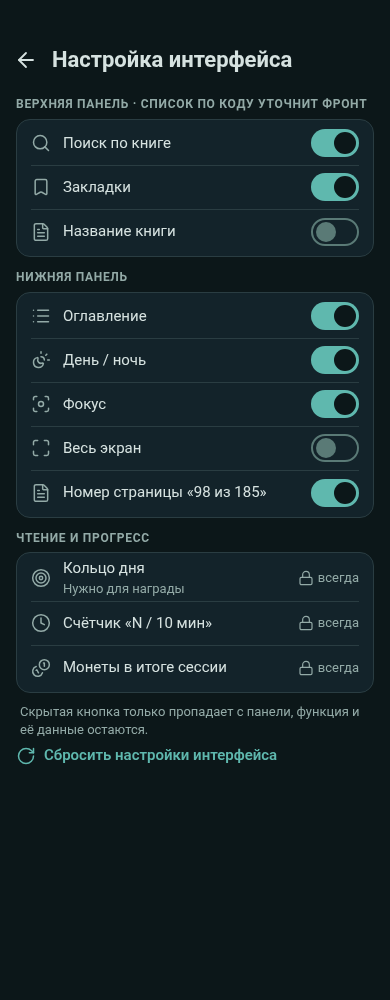
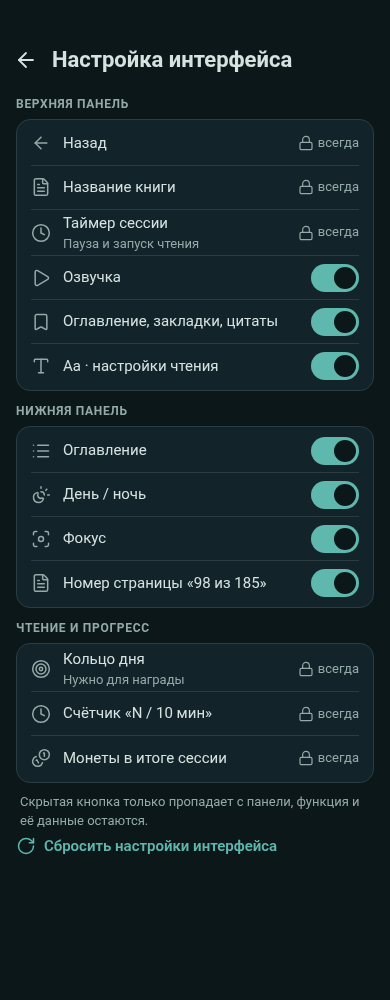
ui: Настройка интерфейса по реальной верхней панели, UI_LOCKED, без btnFull

Changed region(s): [[0.0308, 0.093, 0.9231, 0.868], [0.3077, 0.093, 0.4923, 0.155], [0.1846, 0.124, 0.2769, 0.155]]

diff --git a/handoff/stage1-final/src/sf-settings-interface-night.html b/handoff/stage1-final/src/sf-settings-interface-night.html
@@ -1,18 +1,36 @@
 <!doctype html><html lang="ru" data-theme="night"><head><meta charset="utf-8"><title>settings-interface</title><link rel="stylesheet" href="../tokens.css"><link rel="stylesheet" href="mock.css"></head><body><div class="scr"><div class="hdr back" style="height:84px"><div class="ib"><svg class="i" width="24" height="24" viewBox="0 0 24 24" fill="none" stroke="currentColor" stroke-width="1.8" stroke-linecap="round" stroke-linejoin="round">
   <path d="m12 19-7-7 7-7" />
   <path d="M19 12H5" />
-</svg></div><h1>Настройка интерфейса</h1></div><div class="setwrap"><div class="cap" style="margin:12px 16px 6px">Верхняя панель · список по коду уточнит Фронт</div><div class="card" style="margin:0 16px;padding:2px 14px"><div class="srow" style="padding:3px 0;border-bottom:1px solid var(--rq-line)"><span class="mut"><svg class="i" width="20" height="20" viewBox="0 0 24 24" fill="none" stroke="currentColor" stroke-width="1.8" stroke-linecap="round" stroke-linejoin="round">
-  <path d="m21 21-4.34-4.34" />
-  <circle cx="11" cy="11" r="8" />
-</svg></span><div class="tx">Поиск по книге</div><div class="tg"></div></div><div class="srow" style="padding:3px 0;border-bottom:1px solid var(--rq-line)"><span class="mut"><svg class="i" width="20" height="20" viewBox="0 0 24 24" fill="none" stroke="currentColor" stroke-width="1.8" stroke-linecap="round" stroke-linejoin="round">
-  <path d="M17 3a2 2 0 0 1 2 2v15a1 1 0 0 1-1.496.868l-4.512-2.578a2 2 0 0 0-1.984 0l-4.512 2.578A1 1 0 0 1 5 20V5a2 2 0 0 1 2-2z" />
-</svg></span><div class="tx">Закладки</div><div class="tg"></div></div><div class="srow" style="padding:3px 0;border-bottom:0"><span class="mut"><svg class="i" width="20" height="20" viewBox="0 0 24 24" fill="none" stroke="currentColor" stroke-width="1.8" stroke-linecap="round" stroke-linejoin="round">
+</svg></div><h1>Настройка интерфейса</h1></div><div class="setwrap"><div class="cap" style="margin:12px 16px 6px">Верхняя панель</div><div class="card" style="margin:0 16px;padding:2px 14px"><div class="srow" style="padding:3px 0;border-bottom:1px solid var(--rq-line)"><span class="mut"><svg class="i" width="20" height="20" viewBox="0 0 24 24" fill="none" stroke="currentColor" stroke-width="1.8" stroke-linecap="round" stroke-linejoin="round">
+  <path d="m12 19-7-7 7-7" />
+  <path d="M19 12H5" />
+</svg></span><div class="tx">Назад</div><span class="mut" style="display:flex;align-items:center;gap:4px;font-size:0.8125rem"><svg class="i" width="16" height="16" viewBox="0 0 24 24" fill="none" stroke="currentColor" stroke-width="1.8" stroke-linecap="round" stroke-linejoin="round">
+  <rect width="18" height="11" x="3" y="11" rx="2" ry="2" />
+  <path d="M7 11V7a5 5 0 0 1 10 0v4" />
+</svg>всегда</span></div><div class="srow" style="padding:3px 0;border-bottom:1px solid var(--rq-line)"><span class="mut"><svg class="i" width="20" height="20" viewBox="0 0 24 24" fill="none" stroke="currentColor" stroke-width="1.8" stroke-linecap="round" stroke-linejoin="round">
   <path d="M6 22a2 2 0 0 1-2-2V4a2 2 0 0 1 2-2h8a2.4 2.4 0 0 1 1.704.706l3.588 3.588A2.4 2.4 0 0 1 20 8v12a2 2 0 0 1-2 2z" />
   <path d="M14 2v5a1 1 0 0 0 1 1h5" />
   <path d="M10 9H8" />
   <path d="M16 13H8" />
   <path d="M16 17H8" />
-</svg></span><div class="tx">Название книги</div><div class="tg off"></div></div></div><div class="cap" style="margin:12px 16px 6px">Нижняя панель</div><div class="card" style="margin:0 16px;padding:2px 14px"><div class="srow" style="padding:3px 0;border-bottom:1px solid var(--rq-line)"><span class="mut"><svg class="i" width="20" height="20" viewBox="0 0 24 24" fill="none" stroke="currentColor" stroke-width="1.8" stroke-linecap="round" stroke-linejoin="round">
+</svg></span><div class="tx">Название книги</div><span class="mut" style="display:flex;align-items:center;gap:4px;font-size:0.8125rem"><svg class="i" width="16" height="16" viewBox="0 0 24 24" fill="none" stroke="currentColor" stroke-width="1.8" stroke-linecap="round" stroke-linejoin="round">
+  <rect width="18" height="11" x="3" y="11" rx="2" ry="2" />
+  <path d="M7 11V7a5 5 0 0 1 10 0v4" />
+</svg>всегда</span></div><div class="srow" style="padding:3px 0;border-bottom:1px solid var(--rq-line)"><span class="mut"><svg class="i" width="20" height="20" viewBox="0 0 24 24" fill="none" stroke="currentColor" stroke-width="1.8" stroke-linecap="round" stroke-linejoin="round">
+  <circle cx="12" cy="12" r="10" />
+  <path d="M12 6v6l4 2" />
+</svg></span><div class="tx">Таймер сессии<small>Пауза и запуск чтения</small></div><span class="mut" style="display:flex;align-items:center;gap:4px;font-size:0.8125rem"><svg class="i" width="16" height="16" viewBox="0 0 24 24" fill="none" stroke="currentColor" stroke-width="1.8" stroke-linecap="round" stroke-linejoin="round">
+  <rect width="18" height="11" x="3" y="11" rx="2" ry="2" />
+  <path d="M7 11V7a5 5 0 0 1 10 0v4" />
+</svg>всегда</span></div><div class="srow" style="padding:3px 0;border-bottom:1px solid var(--rq-line)"><span class="mut"><svg class="i" width="20" height="20" viewBox="0 0 24 24" fill="none" stroke="currentColor" stroke-width="1.8" stroke-linecap="round" stroke-linejoin="round">
+  <path d="M5 5a2 2 0 0 1 3.008-1.728l11.997 6.998a2 2 0 0 1 .003 3.458l-12 7A2 2 0 0 1 5 19z" />
+</svg></span><div class="tx">Озвучка</div><div class="tg"></div></div><div class="srow" style="padding:3px 0;border-bottom:1px solid var(--rq-line)"><span class="mut"><svg class="i" width="20" height="20" viewBox="0 0 24 24" fill="none" stroke="currentColor" stroke-width="1.8" stroke-linecap="round" stroke-linejoin="round">
+  <path d="M17 3a2 2 0 0 1 2 2v15a1 1 0 0 1-1.496.868l-4.512-2.578a2 2 0 0 0-1.984 0l-4.512 2.578A1 1 0 0 1 5 20V5a2 2 0 0 1 2-2z" />
+</svg></span><div class="tx">Оглавление, закладки, цитаты</div><div class="tg"></div></div><div class="srow" style="padding:3px 0;border-bottom:0"><span class="mut"><svg class="i" width="20" height="20" viewBox="0 0 24 24" fill="none" stroke="currentColor" stroke-width="1.8" stroke-linecap="round" stroke-linejoin="round">
+  <path d="M12 4v16" />
+  <path d="M4 7V5a1 1 0 0 1 1-1h14a1 1 0 0 1 1 1v2" />
+  <path d="M9 20h6" />
+</svg></span><div class="tx">Aa · настройки чтения</div><div class="tg"></div></div></div><div class="cap" style="margin:12px 16px 6px">Нижняя панель</div><div class="card" style="margin:0 16px;padding:2px 14px"><div class="srow" style="padding:3px 0;border-bottom:1px solid var(--rq-line)"><span class="mut"><svg class="i" width="20" height="20" viewBox="0 0 24 24" fill="none" stroke="currentColor" stroke-width="1.8" stroke-linecap="round" stroke-linejoin="round">
   <path d="M3 5h.01" />
   <path d="M3 12h.01" />
   <path d="M3 19h.01" />
@@ -31,12 +49,7 @@
   <path d="M17 3h2a2 2 0 0 1 2 2v2" />
   <path d="M21 17v2a2 2 0 0 1-2 2h-2" />
   <path d="M7 21H5a2 2 0 0 1-2-2v-2" />
-</svg></span><div class="tx">Фокус</div><div class="tg"></div></div><div class="srow" style="padding:3px 0;border-bottom:1px solid var(--rq-line)"><span class="mut"><svg class="i" width="20" height="20" viewBox="0 0 24 24" fill="none" stroke="currentColor" stroke-width="1.8" stroke-linecap="round" stroke-linejoin="round">
-  <path d="M8 3H5a2 2 0 0 0-2 2v3" />
-  <path d="M21 8V5a2 2 0 0 0-2-2h-3" />
-  <path d="M3 16v3a2 2 0 0 0 2 2h3" />
-  <path d="M16 21h3a2 2 0 0 0 2-2v-3" />
-</svg></span><div class="tx">Весь экран</div><div class="tg off"></div></div><div class="srow" style="padding:3px 0;border-bottom:0"><span class="mut"><svg class="i" width="20" height="20" viewBox="0 0 24 24" fill="none" stroke="currentColor" stroke-width="1.8" stroke-linecap="round" stroke-linejoin="round">
+</svg></span><div class="tx">Фокус</div><div class="tg"></div></div><div class="srow" style="padding:3px 0;border-bottom:0"><span class="mut"><svg class="i" width="20" height="20" viewBox="0 0 24 24" fill="none" stroke="currentColor" stroke-width="1.8" stroke-linecap="round" stroke-linejoin="round">
   <path d="M6 22a2 2 0 0 1-2-2V4a2 2 0 0 1 2-2h8a2.4 2.4 0 0 1 1.704.706l3.588 3.588A2.4 2.4 0 0 1 20 8v12a2 2 0 0 1-2 2z" />
   <path d="M14 2v5a1 1 0 0 0 1 1h5" />
   <path d="M10 9H8" />

diff --git a/handoff/stage1-final/src/sf-settings-interface-day.html b/handoff/stage1-final/src/sf-settings-interface-day.html
@@ -1,18 +1,36 @@
 <!doctype html><html lang="ru" data-theme="day"><head><meta charset="utf-8"><title>settings-interface</title><link rel="stylesheet" href="../tokens.css"><link rel="stylesheet" href="mock.css"></head><body><div class="scr"><div class="hdr back" style="height:84px"><div class="ib"><svg class="i" width="24" height="24" viewBox="0 0 24 24" fill="none" stroke="currentColor" stroke-width="1.8" stroke-linecap="round" stroke-linejoin="round">
   <path d="m12 19-7-7 7-7" />
   <path d="M19 12H5" />
-</svg></div><h1>Настройка интерфейса</h1></div><div class="setwrap"><div class="cap" style="margin:12px 16px 6px">Верхняя панель · список по коду уточнит Фронт</div><div class="card" style="margin:0 16px;padding:2px 14px"><div class="srow" style="padding:3px 0;border-bottom:1px solid var(--rq-line)"><span class="mut"><svg class="i" width="20" height="20" viewBox="0 0 24 24" fill="none" stroke="currentColor" stroke-width="1.8" stroke-linecap="round" stroke-linejoin="round">
-  <path d="m21 21-4.34-4.34" />
-  <circle cx="11" cy="11" r="8" />
-</svg></span><div class="tx">Поиск по книге</div><div class="tg"></div></div><div class="srow" style="padding:3px 0;border-bottom:1px solid var(--rq-line)"><span class="mut"><svg class="i" width="20" height="20" viewBox="0 0 24 24" fill="none" stroke="currentColor" stroke-width="1.8" stroke-linecap="round" stroke-linejoin="round">
-  <path d="M17 3a2 2 0 0 1 2 2v15a1 1 0 0 1-1.496.868l-4.512-2.578a2 2 0 0 0-1.984 0l-4.512 2.578A1 1 0 0 1 5 20V5a2 2 0 0 1 2-2z" />
-</svg></span><div class="tx">Закладки</div><div class="tg"></div></div><div class="srow" style="padding:3px 0;border-bottom:0"><span class="mut"><svg class="i" width="20" height="20" viewBox="0 0 24 24" fill="none" stroke="currentColor" stroke-width="1.8" stroke-linecap="round" stroke-linejoin="round">
+</svg></div><h1>Настройка интерфейса</h1></div><div class="setwrap"><div class="cap" style="margin:12px 16px 6px">Верхняя панель</div><div class="card" style="margin:0 16px;padding:2px 14px"><div class="srow" style="padding:3px 0;border-bottom:1px solid var(--rq-line)"><span class="mut"><svg class="i" width="20" height="20" viewBox="0 0 24 24" fill="none" stroke="currentColor" stroke-width="1.8" stroke-linecap="round" stroke-linejoin="round">
+  <path d="m12 19-7-7 7-7" />
+  <path d="M19 12H5" />
+</svg></span><div class="tx">Назад</div><span class="mut" style="display:flex;align-items:center;gap:4px;font-size:0.8125rem"><svg class="i" width="16" height="16" viewBox="0 0 24 24" fill="none" stroke="currentColor" stroke-width="1.8" stroke-linecap="round" stroke-linejoin="round">
+  <rect width="18" height="11" x="3" y="11" rx="2" ry="2" />
+  <path d="M7 11V7a5 5 0 0 1 10 0v4" />
+</svg>всегда</span></div><div class="srow" style="padding:3px 0;border-bottom:1px solid var(--rq-line)"><span class="mut"><svg class="i" width="20" height="20" viewBox="0 0 24 24" fill="none" stroke="currentColor" stroke-width="1.8" stroke-linecap="round" stroke-linejoin="round">
   <path d="M6 22a2 2 0 0 1-2-2V4a2 2 0 0 1 2-2h8a2.4 2.4 0 0 1 1.704.706l3.588 3.588A2.4 2.4 0 0 1 20 8v12a2 2 0 0 1-2 2z" />
   <path d="M14 2v5a1 1 0 0 0 1 1h5" />
   <path d="M10 9H8" />
   <path d="M16 13H8" />
   <path d="M16 17H8" />
-</svg></span><div class="tx">Название книги</div><div class="tg off"></div></div></div><div class="cap" style="margin:12px 16px 6px">Нижняя панель</div><div class="card" style="margin:0 16px;padding:2px 14px"><div class="srow" style="padding:3px 0;border-bottom:1px solid var(--rq-line)"><span class="mut"><svg class="i" width="20" height="20" viewBox="0 0 24 24" fill="none" stroke="currentColor" stroke-width="1.8" stroke-linecap="round" stroke-linejoin="round">
+</svg></span><div class="tx">Название книги</div><span class="mut" style="display:flex;align-items:center;gap:4px;font-size:0.8125rem"><svg class="i" width="16" height="16" viewBox="0 0 24 24" fill="none" stroke="currentColor" stroke-width="1.8" stroke-linecap="round" stroke-linejoin="round">
+  <rect width="18" height="11" x="3" y="11" rx="2" ry="2" />
+  <path d="M7 11V7a5 5 0 0 1 10 0v4" />
+</svg>всегда</span></div><div class="srow" style="padding:3px 0;border-bottom:1px solid var(--rq-line)"><span class="mut"><svg class="i" width="20" height="20" viewBox="0 0 24 24" fill="none" stroke="currentColor" stroke-width="1.8" stroke-linecap="round" stroke-linejoin="round">
+  <circle cx="12" cy="12" r="10" />
+  <path d="M12 6v6l4 2" />
+</svg></span><div class="tx">Таймер сессии<small>Пауза и запуск чтения</small></div><span class="mut" style="display:flex;align-items:center;gap:4px;font-size:0.8125rem"><svg class="i" width="16" height="16" viewBox="0 0 24 24" fill="none" stroke="currentColor" stroke-width="1.8" stroke-linecap="round" stroke-linejoin="round">
+  <rect width="18" height="11" x="3" y="11" rx="2" ry="2" />
+  <path d="M7 11V7a5 5 0 0 1 10 0v4" />
+</svg>всегда</span></div><div class="srow" style="padding:3px 0;border-bottom:1px solid var(--rq-line)"><span class="mut"><svg class="i" width="20" height="20" viewBox="0 0 24 24" fill="none" stroke="currentColor" stroke-width="1.8" stroke-linecap="round" stroke-linejoin="round">
+  <path d="M5 5a2 2 0 0 1 3.008-1.728l11.997 6.998a2 2 0 0 1 .003 3.458l-12 7A2 2 0 0 1 5 19z" />
+</svg></span><div class="tx">Озвучка</div><div class="tg"></div></div><div class="srow" style="padding:3px 0;border-bottom:1px solid var(--rq-line)"><span class="mut"><svg class="i" width="20" height="20" viewBox="0 0 24 24" fill="none" stroke="currentColor" stroke-width="1.8" stroke-linecap="round" stroke-linejoin="round">
+  <path d="M17 3a2 2 0 0 1 2 2v15a1 1 0 0 1-1.496.868l-4.512-2.578a2 2 0 0 0-1.984 0l-4.512 2.578A1 1 0 0 1 5 20V5a2 2 0 0 1 2-2z" />
+</svg></span><div class="tx">Оглавление, закладки, цитаты</div><div class="tg"></div></div><div class="srow" style="padding:3px 0;border-bottom:0"><span class="mut"><svg class="i" width="20" height="20" viewBox="0 0 24 24" fill="none" stroke="currentColor" stroke-width="1.8" stroke-linecap="round" stroke-linejoin="round">
+  <path d="M12 4v16" />
+  <path d="M4 7V5a1 1 0 0 1 1-1h14a1 1 0 0 1 1 1v2" />
+  <path d="M9 20h6" />
+</svg></span><div class="tx">Aa · настройки чтения</div><div class="tg"></div></div></div><div class="cap" style="margin:12px 16px 6px">Нижняя панель</div><div class="card" style="margin:0 16px;padding:2px 14px"><div class="srow" style="padding:3px 0;border-bottom:1px solid var(--rq-line)"><span class="mut"><svg class="i" width="20" height="20" viewBox="0 0 24 24" fill="none" stroke="currentColor" stroke-width="1.8" stroke-linecap="round" stroke-linejoin="round">
   <path d="M3 5h.01" />
   <path d="M3 12h.01" />
   <path d="M3 19h.01" />
@@ -31,12 +49,7 @@
   <path d="M17 3h2a2 2 0 0 1 2 2v2" />
   <path d="M21 17v2a2 2 0 0 1-2 2h-2" />
   <path d="M7 21H5a2 2 0 0 1-2-2v-2" />
-</svg></span><div class="tx">Фокус</div><div class="tg"></div></div><div class="srow" style="padding:3px 0;border-bottom:1px solid var(--rq-line)"><span class="mut"><svg class="i" width="20" height="20" viewBox="0 0 24 24" fill="none" stroke="currentColor" stroke-width="1.8" stroke-linecap="round" stroke-linejoin="round">
-  <path d="M8 3H5a2 2 0 0 0-2 2v3" />
-  <path d="M21 8V5a2 2 0 0 0-2-2h-3" />
-  <path d="M3 16v3a2 2 0 0 0 2 2h3" />
-  <path d="M16 21h3a2 2 0 0 0 2-2v-3" />
-</svg></span><div class="tx">Весь экран</div><div class="tg off"></div></div><div class="srow" style="padding:3px 0;border-bottom:0"><span class="mut"><svg class="i" width="20" height="20" viewBox="0 0 24 24" fill="none" stroke="currentColor" stroke-width="1.8" stroke-linecap="round" stroke-linejoin="round">
+</svg></span><div class="tx">Фокус</div><div class="tg"></div></div><div class="srow" style="padding:3px 0;border-bottom:0"><span class="mut"><svg class="i" width="20" height="20" viewBox="0 0 24 24" fill="none" stroke="currentColor" stroke-width="1.8" stroke-linecap="round" stroke-linejoin="round">
   <path d="M6 22a2 2 0 0 1-2-2V4a2 2 0 0 1 2-2h8a2.4 2.4 0 0 1 1.704.706l3.588 3.588A2.4 2.4 0 0 1 20 8v12a2 2 0 0 1-2 2z" />
   <path d="M14 2v5a1 1 0 0 0 1 1h5" />
   <path d="M10 9H8" />

diff --git a/handoff/stage1-final/src/sf-settings-search-day.html b/handoff/stage1-final/src/sf-settings-search-day.html
@@ -20,10 +20,7 @@
 </svg></span><div class="tx">Размер интерфейса (весь <mark style="background:var(--rq-accent-tint);color:var(--rq-accent-text);border-radius:3px">экран</mark>)<small>Общие → Внешний вид</small></div><span class="mut"><svg class="i" width="20" height="20" viewBox="0 0 24 24" fill="none" stroke="currentColor" stroke-width="1.8" stroke-linecap="round" stroke-linejoin="round">
   <path d="m9 18 6-6-6-6" />
 </svg></span></div><div class="srow" style="padding:3px 0;border-bottom:0"><span class="mut"><svg class="i" width="20" height="20" viewBox="0 0 24 24" fill="none" stroke="currentColor" stroke-width="1.8" stroke-linecap="round" stroke-linejoin="round">
-  <path d="M8 3H5a2 2 0 0 0-2 2v3" />
-  <path d="M21 8V5a2 2 0 0 0-2-2h-3" />
-  <path d="M3 16v3a2 2 0 0 0 2 2h3" />
-  <path d="M16 21h3a2 2 0 0 0 2-2v-3" />
-</svg></span><div class="tx">Кнопка «Весь <mark style="background:var(--rq-accent-tint);color:var(--rq-accent-text);border-radius:3px">экран</mark>»<small>Настройка интерфейса → Нижняя панель</small></div><span class="mut"><svg class="i" width="20" height="20" viewBox="0 0 24 24" fill="none" stroke="currentColor" stroke-width="1.8" stroke-linecap="round" stroke-linejoin="round">
+  <path d="M20.985 12.486a9 9 0 1 1-9.473-9.472c.405-.022.617.46.402.803a6 6 0 0 0 8.268 8.268c.344-.215.825-.004.803.401" />
+</svg></span><div class="tx">Затемнение страницы (ночной <mark style="background:var(--rq-accent-tint);color:var(--rq-accent-text);border-radius:3px">экран</mark>)<small>Чтение → Страница</small></div><span class="mut"><svg class="i" width="20" height="20" viewBox="0 0 24 24" fill="none" stroke="currentColor" stroke-width="1.8" stroke-linecap="round" stroke-linejoin="round">
   <path d="m9 18 6-6-6-6" />
 </svg></span></div></div><div class="mut" style="margin:14px 20px;font-size:0.8125rem">Ищет по названию и по описанию. Тап по результату открывает раздел и подсвечивает пункт.</div></div></div></body></html>

diff --git a/handoff/stage1-final/src/sf-settings-search-night.html b/handoff/stage1-final/src/sf-settings-search-night.html
@@ -20,10 +20,7 @@
 </svg></span><div class="tx">Размер интерфейса (весь <mark style="background:var(--rq-accent-tint);color:var(--rq-accent-text);border-radius:3px">экран</mark>)<small>Общие → Внешний вид</small></div><span class="mut"><svg class="i" width="20" height="20" viewBox="0 0 24 24" fill="none" stroke="currentColor" stroke-width="1.8" stroke-linecap="round" stroke-linejoin="round">
   <path d="m9 18 6-6-6-6" />
 </svg></span></div><div class="srow" style="padding:3px 0;border-bottom:0"><span class="mut"><svg class="i" width="20" height="20" viewBox="0 0 24 24" fill="none" stroke="currentColor" stroke-width="1.8" stroke-linecap="round" stroke-linejoin="round">
-  <path d="M8 3H5a2 2 0 0 0-2 2v3" />
-  <path d="M21 8V5a2 2 0 0 0-2-2h-3" />
-  <path d="M3 16v3a2 2 0 0 0 2 2h3" />
-  <path d="M16 21h3a2 2 0 0 0 2-2v-3" />
-</svg></span><div class="tx">Кнопка «Весь <mark style="background:var(--rq-accent-tint);color:var(--rq-accent-text);border-radius:3px">экран</mark>»<small>Настройка интерфейса → Нижняя панель</small></div><span class="mut"><svg class="i" width="20" height="20" viewBox="0 0 24 24" fill="none" stroke="currentColor" stroke-width="1.8" stroke-linecap="round" stroke-linejoin="round">
+  <path d="M20.985 12.486a9 9 0 1 1-9.473-9.472c.405-.022.617.46.402.803a6 6 0 0 0 8.268 8.268c.344-.215.825-.004.803.401" />
+</svg></span><div class="tx">Затемнение страницы (ночной <mark style="background:var(--rq-accent-tint);color:var(--rq-accent-text);border-radius:3px">экран</mark>)<small>Чтение → Страница</small></div><span class="mut"><svg class="i" width="20" height="20" viewBox="0 0 24 24" fill="none" stroke="currentColor" stroke-width="1.8" stroke-linecap="round" stroke-linejoin="round">
   <path d="m9 18 6-6-6-6" />
 </svg></span></div></div><div class="mut" style="margin:14px 20px;font-size:0.8125rem">Ищет по названию и по описанию. Тап по результату открывает раздел и подсвечивает пункт.</div></div></div></body></html>

diff --git a/handoff/stage1-final/src/gen_settings2.py b/handoff/stage1-final/src/gen_settings2.py
@@ -16,7 +16,7 @@ def search(night):
     return (f'<div class="scr">{hdr("Поиск по настройкам")}{sb}<div class="setwrap">'
             + cap('Найдено 3') + card(res('Не гасить экран','Общие → Во время чтения','smartphone')
                                     + res('Размер интерфейса (весь экран)','Общие → Внешний вид','zoom-in')
-                                    + row(hl('Кнопка «Весь экран»','экран'),'Настройка интерфейса → Нижняя панель',chev,'maximize',last=True))
+                                    + row(hl('Затемнение страницы (ночной экран)','экран'),'Чтение → Страница',chev,'moon',last=True))
             + '<div class="mut" style="margin:14px 20px;font-size:13px">Ищет по названию и по описанию. Тап по результату открывает раздел и подсвечивает пункт.</div></div></div>')
 
 def control(night):
@@ -39,9 +39,10 @@ def control(night):
 def visibility(night):
     t = lambda on: '<div class="tg"></div>' if on else '<div class="tg off"></div>'
     return (f'<div class="scr">{hdr("Настройка интерфейса")}<div class="setwrap">'
-            + cap('Верхняя панель · список по коду уточнит Фронт') + card(row('Поиск по книге',None,t(1),'search') + row('Закладки',None,t(1),'bookmark') + row('Название книги',None,t(0),'file-text',last=True))
+            + cap('Верхняя панель') + card(row('Назад',None,lock,'arrow-left') + row('Название книги',None,lock,'file-text') + row('Таймер сессии','Пауза и запуск чтения',lock,'clock')
+                                        + row('Озвучка',None,t(1),'play') + row('Оглавление, закладки, цитаты',None,t(1),'bookmark') + row('Aa · настройки чтения',None,t(1),'type',last=True))
             + cap('Нижняя панель') + card(row('Оглавление',None,t(1),'list') + row('День / ночь',None,t(1),'sun-moon') + row('Фокус',None,t(1),'focus')
-                                        + row('Весь экран',None,t(0),'maximize') + row('Номер страницы «98 из 185»',None,t(1),'file-text',last=True))
+                                        + row('Номер страницы «98 из 185»',None,t(1),'file-text',last=True))
             + cap('Чтение и прогресс') + card(row('Кольцо дня','Нужно для награды',lock,'target') + row('Счётчик «N / 10 мин»',None,lock,'clock')
                                             + row('Монеты в итоге сессии',None,lock,'coins',last=True))
             + f'<div class="mut" style="margin:10px 20px 4px;font-size:13px">Скрытая кнопка только пропадает с панели, функция и её данные остаются.</div>'
